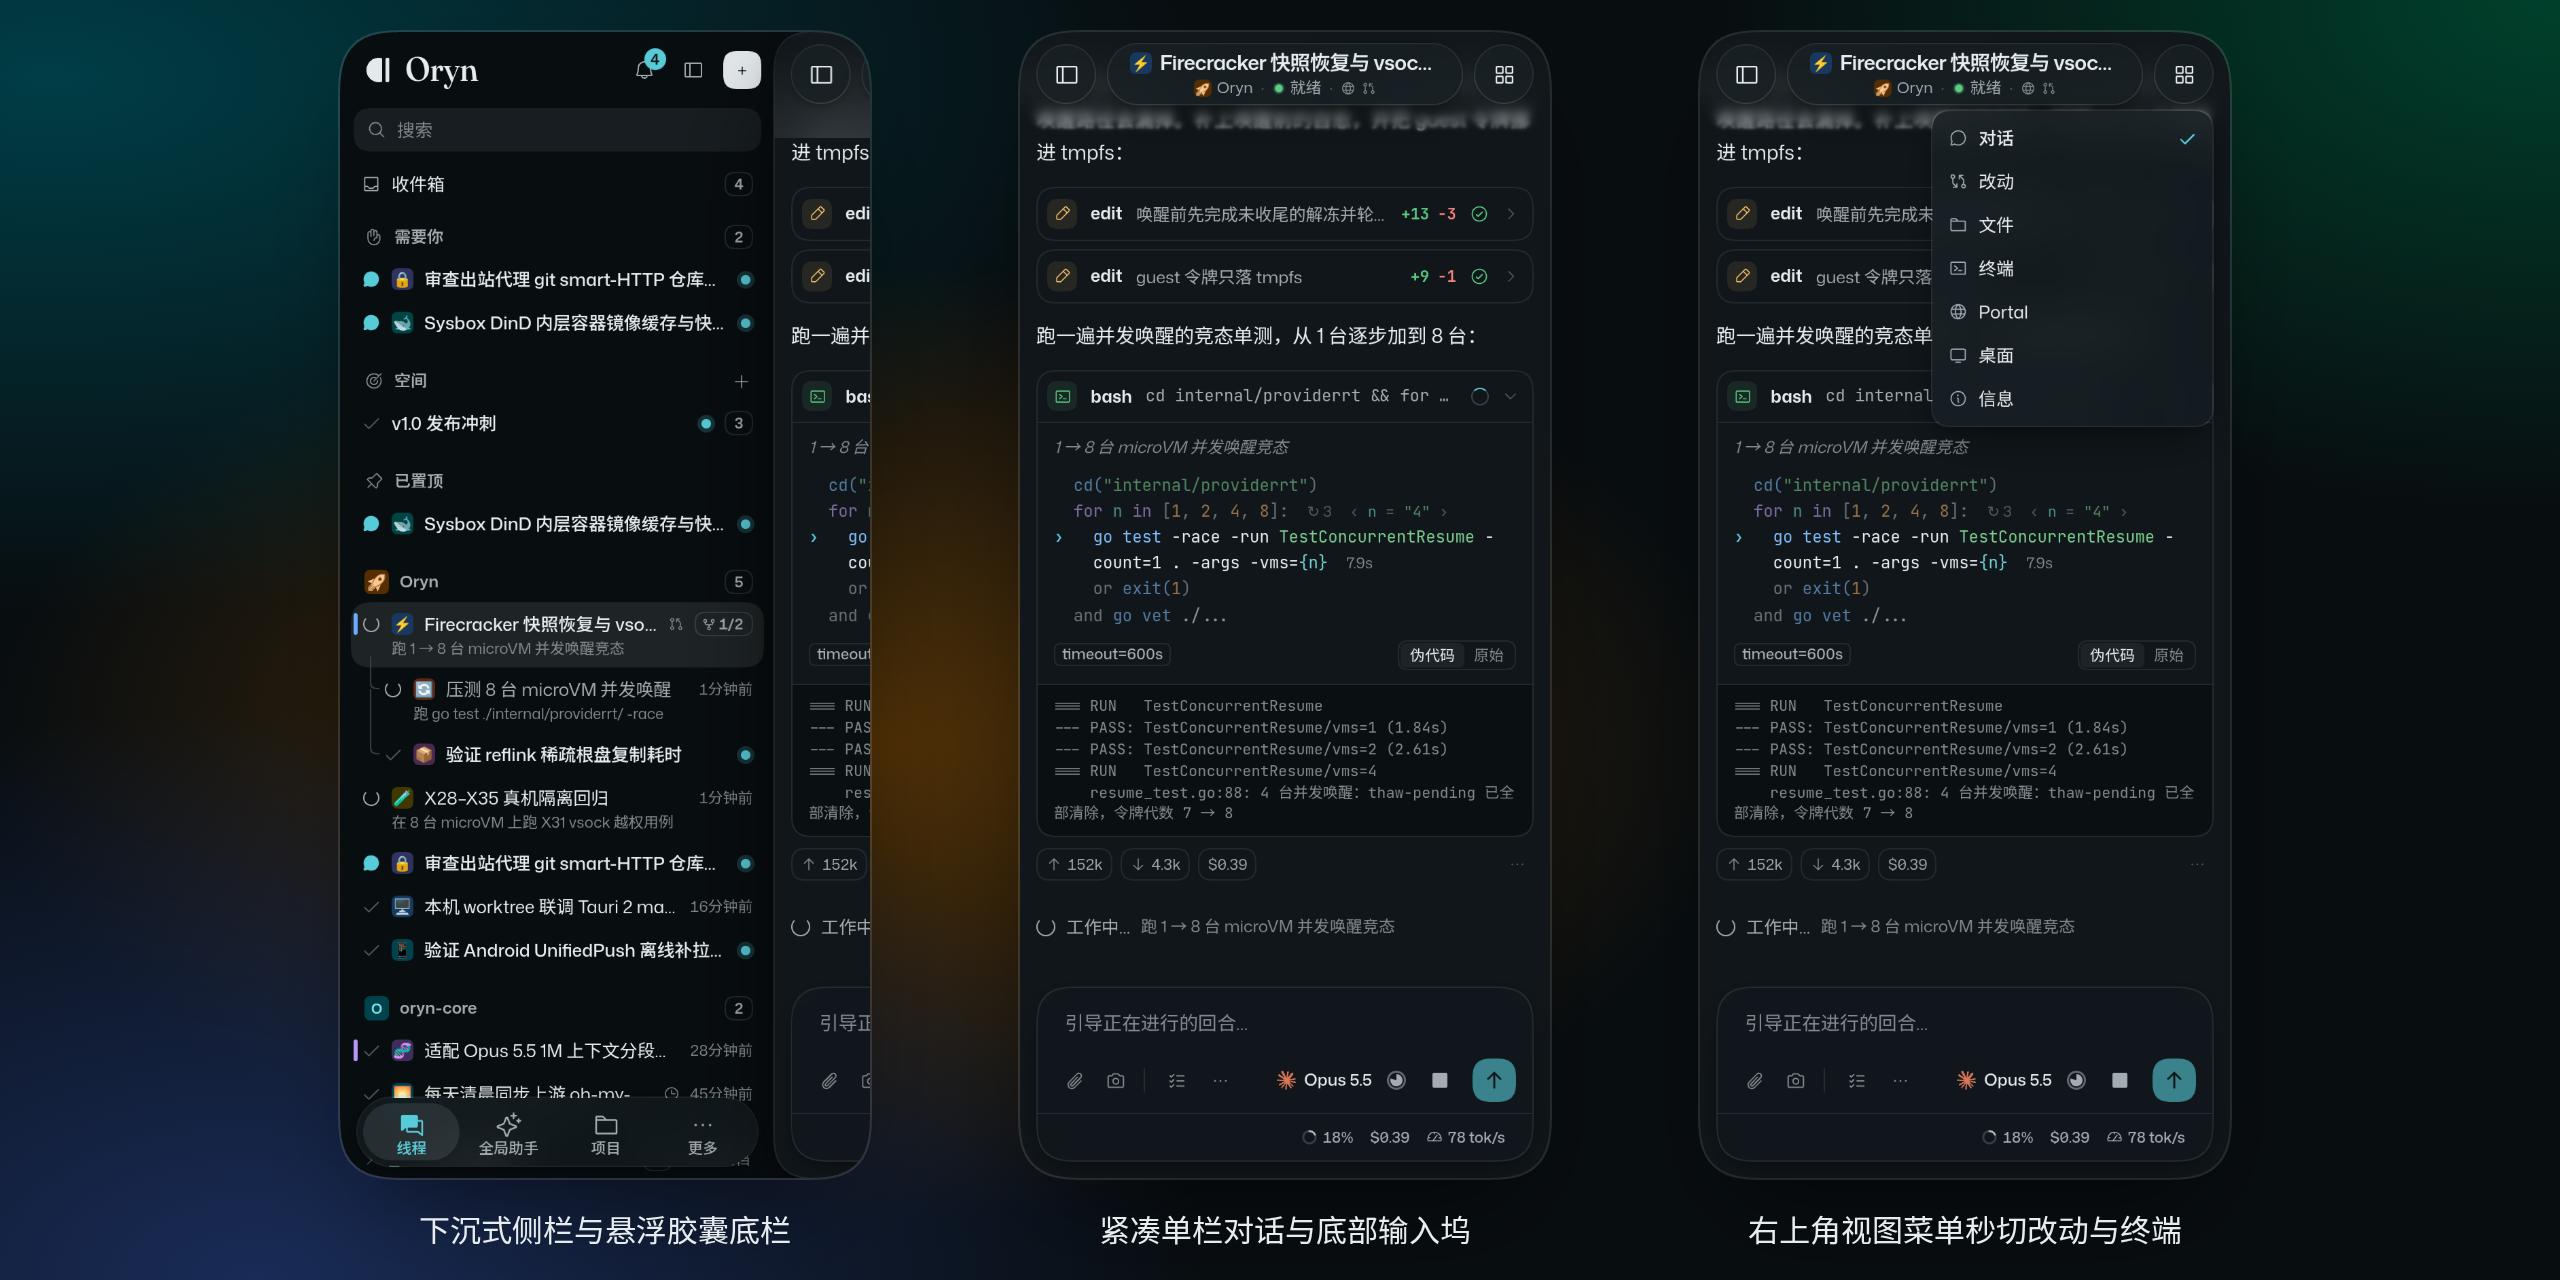
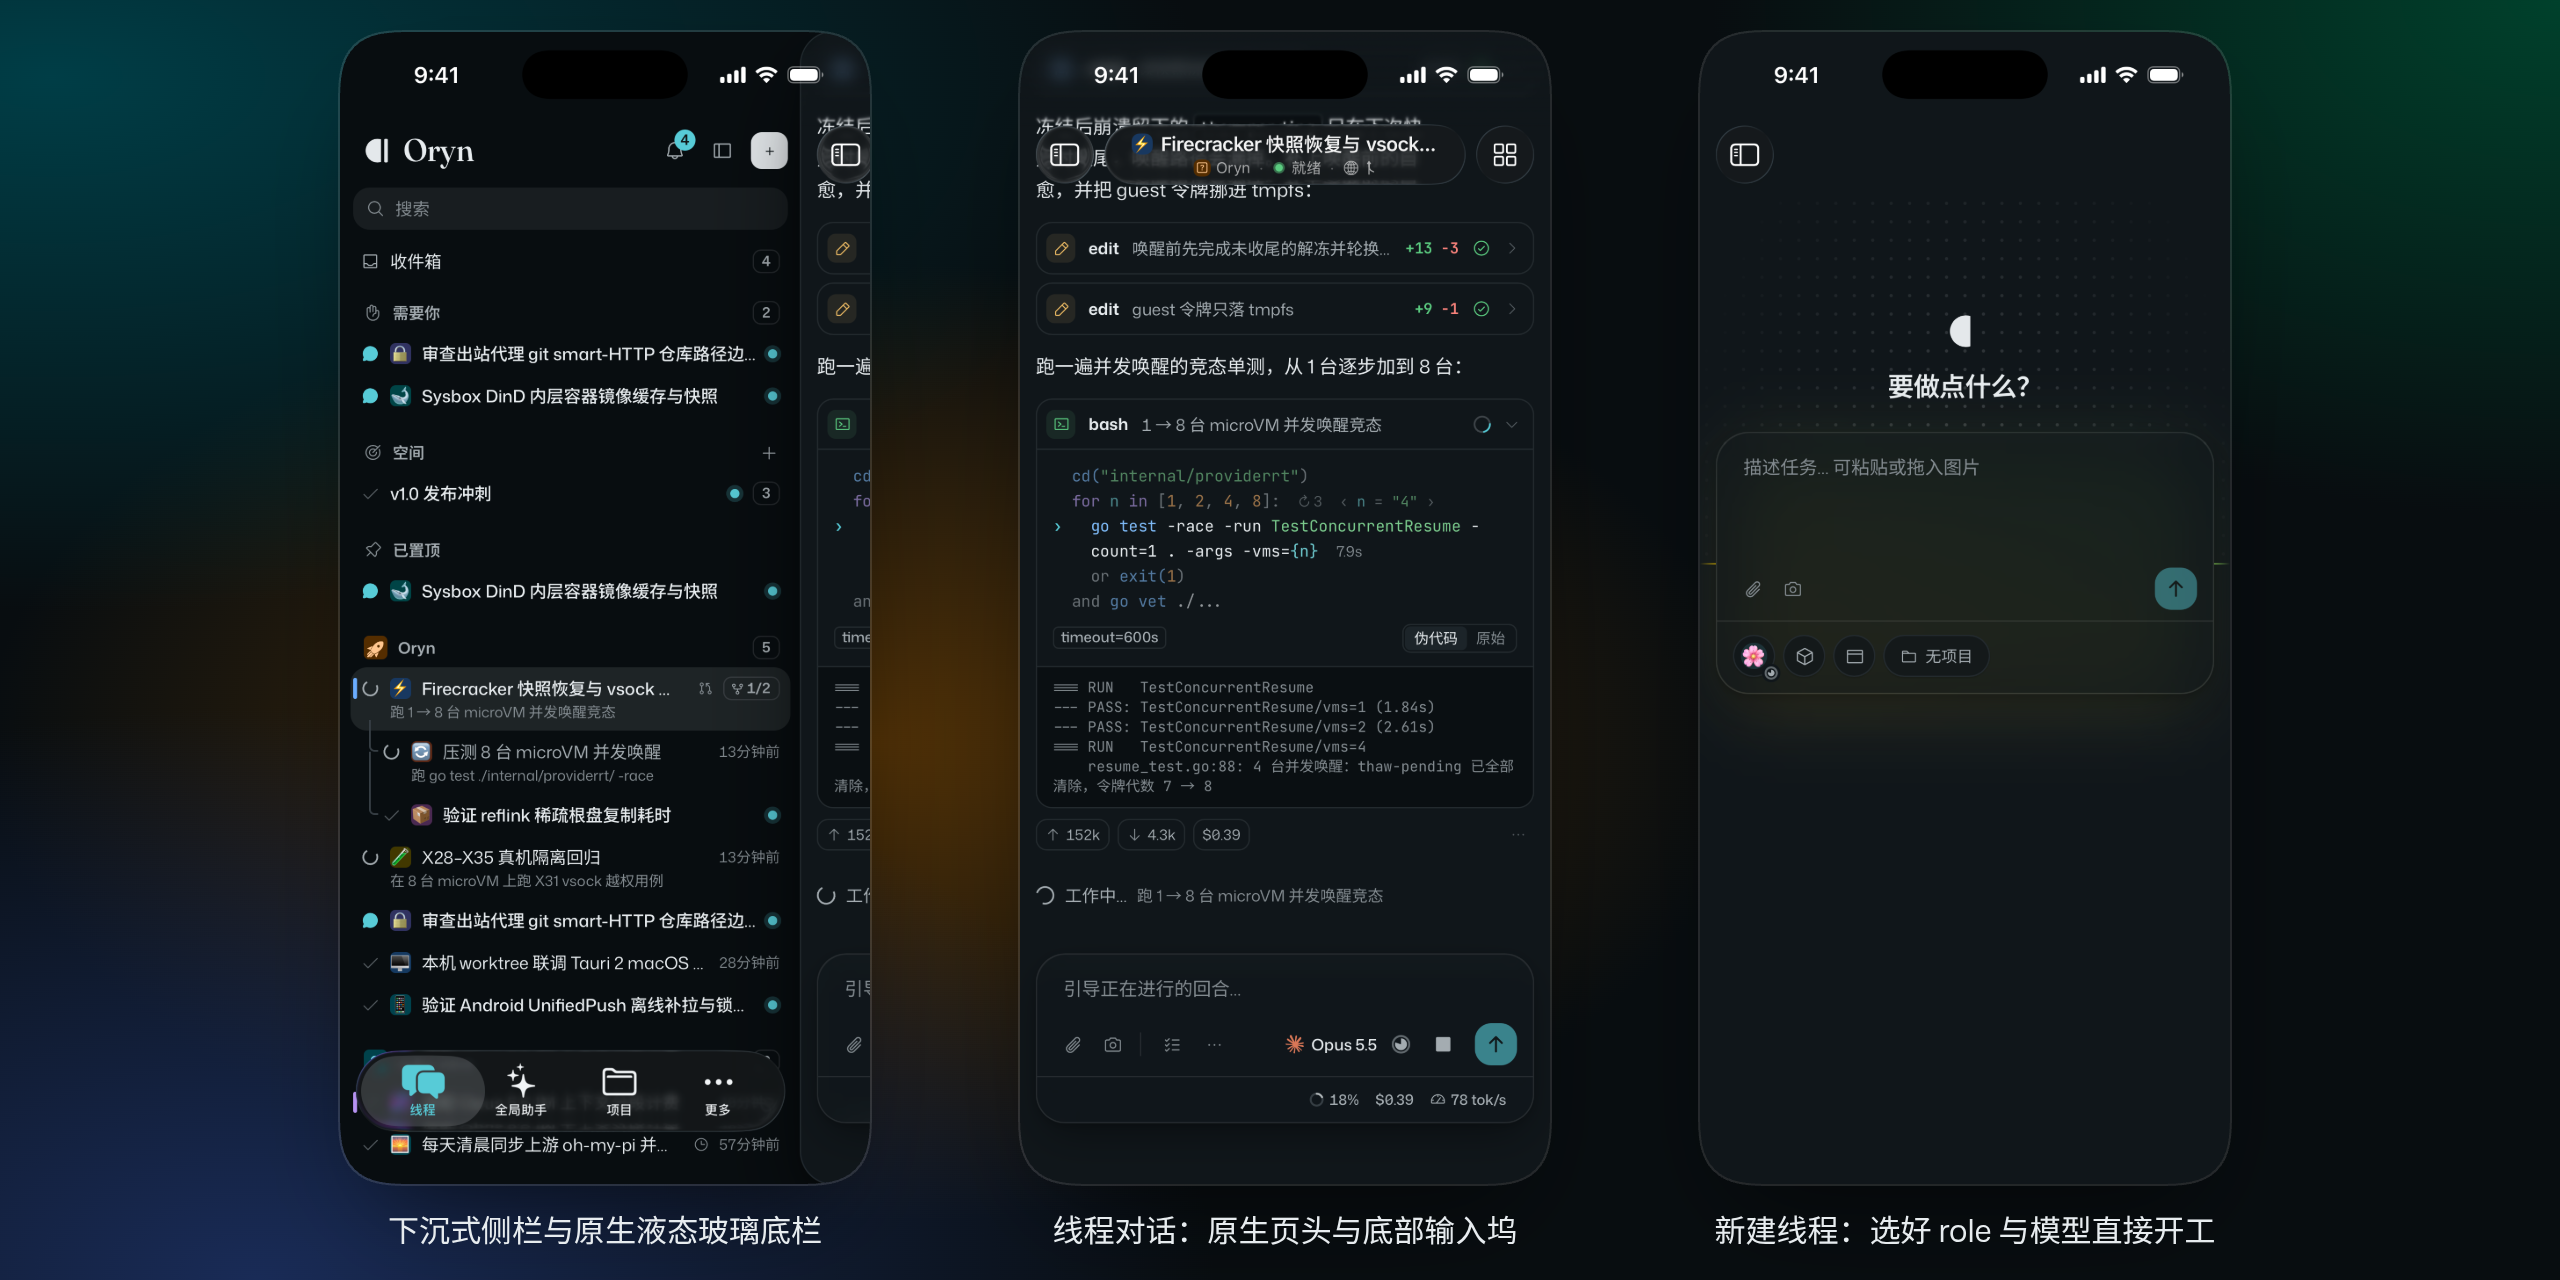
docs(readme): 📸 手机三联换成 iOS 模拟器里真实 App 的截图
- 原图来自 readme-ios-shots 工作流（运行 44857911979）：系统液态玻璃底栏、原生页头与新建线程页
- README 更新配图描述，截图说明注明手机三联来自 iOS 模拟器

diff --git a/README.md b/README.md
@@ -60,7 +60,7 @@ Web、Windows / macOS / Linux、Android、iOS 与 CLI，服务端升级即全端
 
 ## 工作台
 
-<sub>本页截图均由 `bun run shots:readme` 在 mock 模式下用演示数据生成，图中的线程、报告与数字（如基准耗时、成本）不是实测结果。</sub>
+<sub>本页截图均由 `bun run shots:readme` 在 mock 模式下用演示数据生成（手机三联来自 iOS 模拟器里的真实 App），图中的线程、报告与数字（如基准耗时、成本）不是实测结果。</sub>
 
 <picture>
   <source media="(prefers-color-scheme: dark)" srcset="docs/assets/workbench-dark.png">
@@ -156,7 +156,7 @@ Web、Windows / macOS / Linux、Android、iOS 与 CLI，服务端升级即全端
 
 <picture>
   <source media="(prefers-color-scheme: dark)" srcset="docs/assets/mobile-views-dark.png">
-  <img alt="Oryn 移动端三联视图：下沉式侧栏与悬浮毛玻璃胶囊底栏、紧凑单栏对话与底部输入坞、右上角快捷视图切换菜单。" src="docs/assets/mobile-views-light.png" width="100%">
+  <img alt="iOS 模拟器里 Oryn App 的三张截图：打开的下沉式侧栏与系统液态玻璃底栏；线程页的原生页头（侧栏钮、标题胶囊、视图钮）与底部输入坞；新建线程页，点阵背景上的输入框与 role 胶囊。" src="docs/assets/mobile-views-light.png" width="100%">
 </picture>
 
 | 平台 | 形态 | 亮点 |
